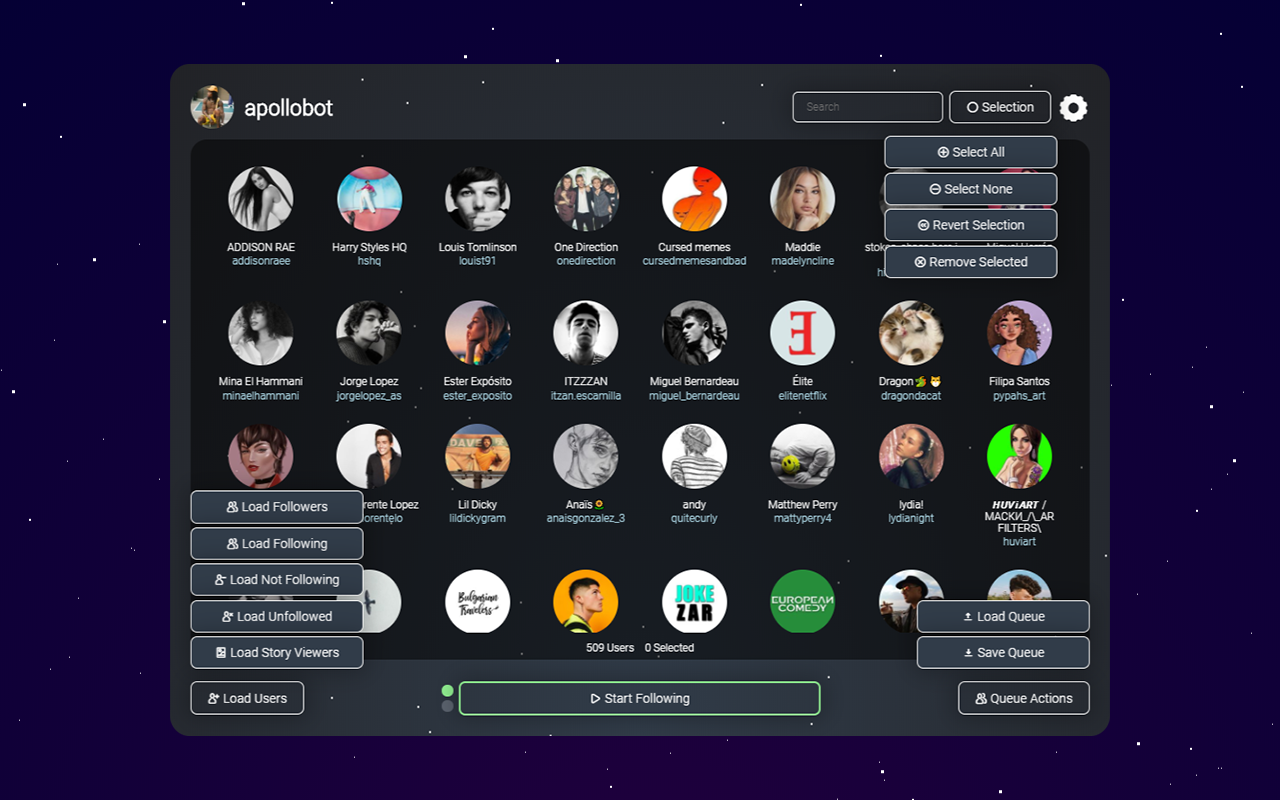
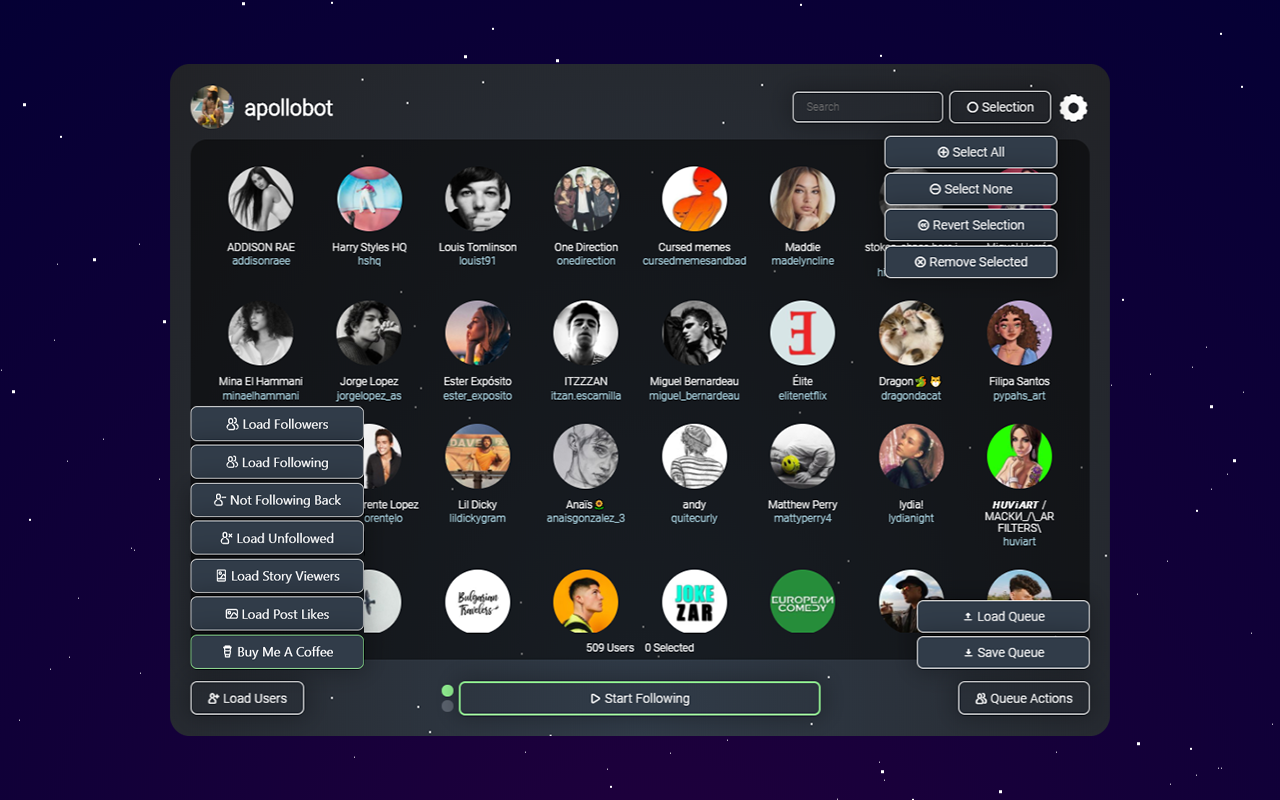
Add donate button.

Changed region(s): [[0.125, 0.5, 0.2812, 0.8438]]

diff --git a/html/main.html b/html/main.html
@@ -74,6 +74,11 @@
                 <img data-src="icons/picture.svg" class="jam"/>
                 <span>Load Post Likes</span>
             </div>
+            <a id="buyMeACoffeeBtn" class="button greenButton" href="https://www.buymeacoffee.com/apollobot"
+               target="_blank">
+                <img data-src="icons/coffee.svg" class="jam"/>
+                <span>Buy Me A Coffee</span>
+            </a>
         </div>
     </div>
     <div class="grow">

diff --git a/css/style.css b/css/style.css
@@ -25,6 +25,14 @@ h1, h3, strong {
     user-select: none;
 }
 
+#buyMeACoffeeBtn {
+    color: white;
+}
+
+#buyMeACoffeeBtn:hover {
+    color: black;
+}
+
 .dropdown {
     position: relative;
     display: inline-block;
